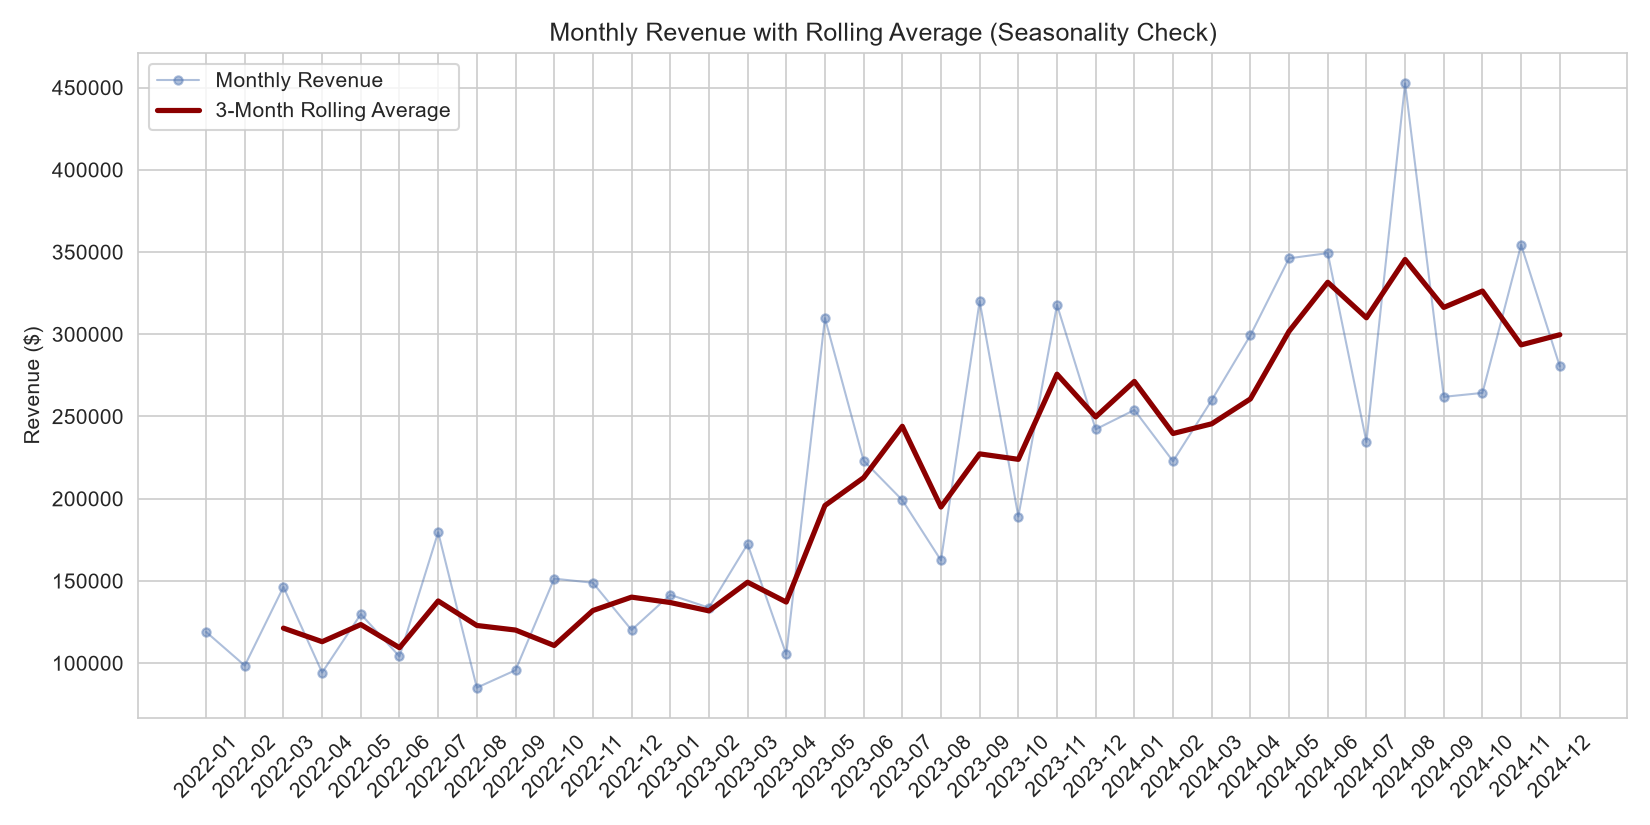
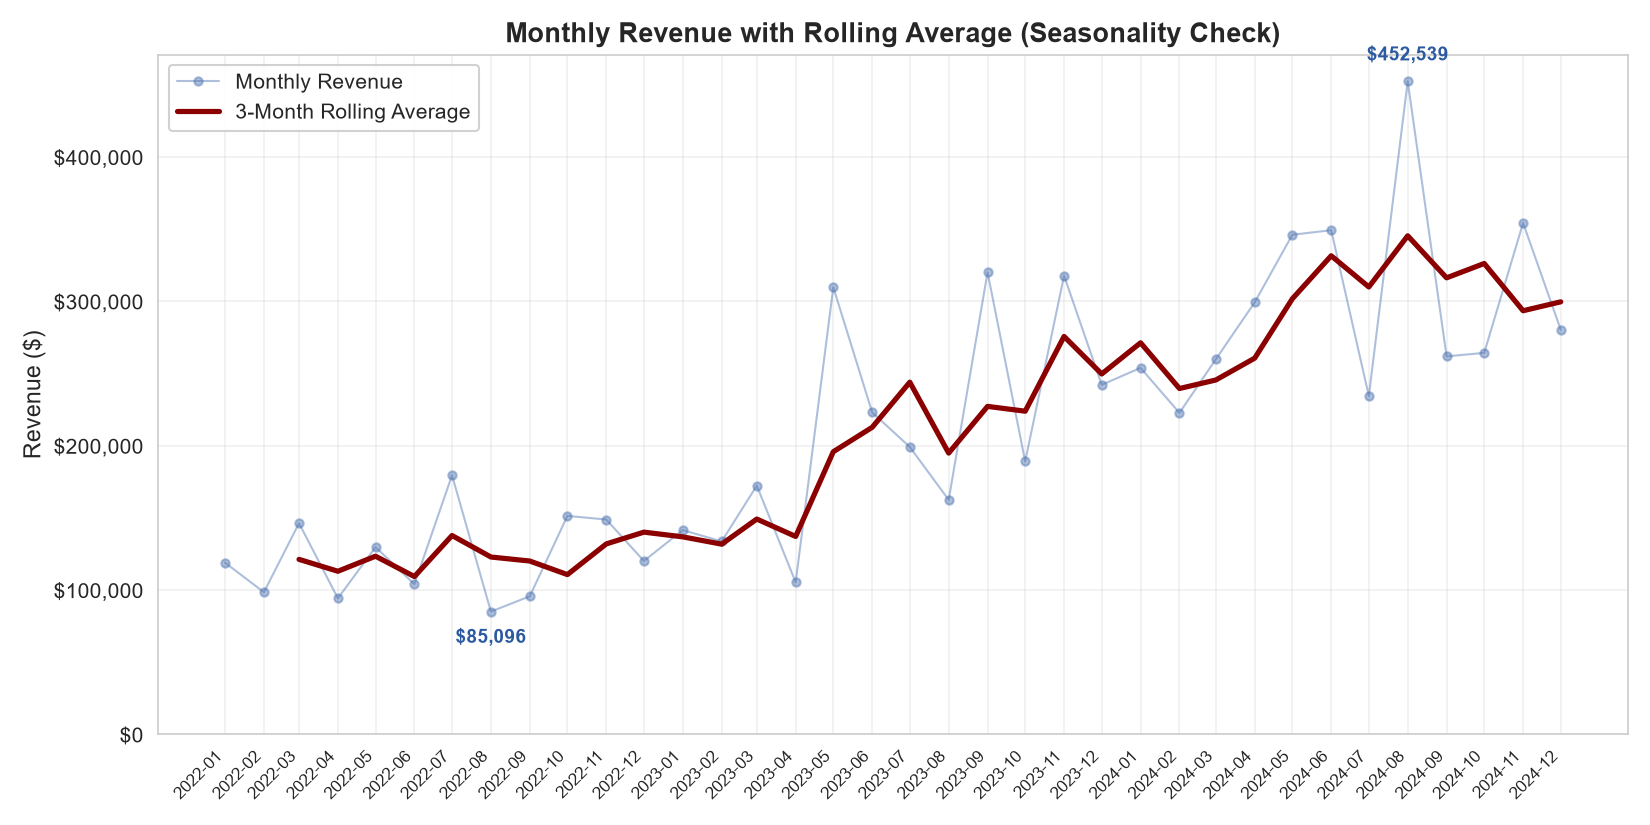
updating the visual in phase 5

Changed region(s): [[0.0, 0.0303, 0.9891, 0.9697], [0.0618, 0.8788, 0.0927, 0.9091]]

diff --git a/src/visualize.py b/src/visualize.py
@@ -7,6 +7,7 @@ import numpy as np
 import pandas as pd
 import matplotlib.pyplot as plt
 import seaborn as sns
+import matplotlib.ticker as mticker
 from . import config
 
 sns.set_style("whitegrid")
@@ -39,15 +40,30 @@ def q2_seasonality(category_month_revenue: pd.DataFrame) -> dict:
     rolling_avg = monthly_revenue.rolling(window=3).mean()
 
     fig, ax = plt.subplots(figsize=(11, 5.5))
-    ax.plot(range(len(monthly_revenue)), monthly_revenue.values, marker="o", markersize=4,
-            color="#4C72B0", linewidth=1, alpha=0.45, label="Monthly Revenue")
-    ax.plot(range(len(rolling_avg)), rolling_avg.values, linewidth=2.5, color="darkred",
-            label="3-Month Rolling Average")
-    ax.set_title("Monthly Revenue with Rolling Average (Seasonality Check)")
-    ax.set_ylabel("Revenue ($)")
-    ax.set_xticks(range(len(monthly_revenue)))
-    ax.set_xticklabels([d.strftime("%Y-%m") for d in monthly_revenue.index], rotation=45)
-    ax.legend(loc="upper left")
+    ax.plot(monthly_revenue.index, monthly_revenue.values, marker="o", markersize=4,
+            color="#4C72B0", linewidth=1, alpha=0.45, label="Monthly Revenue", zorder=1)
+    ax.plot(rolling_avg.index, rolling_avg.values, linewidth=2.5, color="darkred",
+            label="3-Month Rolling Average", zorder=2)
+    ax.yaxis.set_major_formatter(mticker.FuncFormatter(lambda x, _: f"${x:,.0f}"))
+    ax.set_ylim(bottom=0)
+    peak_idx = monthly_revenue.idxmax()
+    trough_idx = monthly_revenue.idxmin()
+    ax.annotate(f"${monthly_revenue[peak_idx]:,.0f}",
+                xy=(peak_idx, monthly_revenue[peak_idx]),
+                xytext=(0, 10), textcoords="offset points",
+                ha="center", fontsize=9, fontweight="bold", color="#2c5aa0")
+    ax.annotate(f"${monthly_revenue[trough_idx]:,.0f}",
+                xy=(trough_idx, monthly_revenue[trough_idx]),
+                xytext=(0, -15), textcoords="offset points",
+                ha="center", fontsize=9, fontweight="bold", color="#2c5aa0")
+    ax.set_xticks(monthly_revenue.index)
+    ax.set_xticklabels([d.strftime("%Y-%m") for d in monthly_revenue.index], rotation=45, ha="right", fontsize=8)
+
+    ax.set_title("Monthly Revenue with Rolling Average (Seasonality Check)", fontsize=13, fontweight="bold")
+    ax.set_ylabel("Revenue ($)", fontsize=11)
+    ax.legend(loc="upper left", framealpha=0.9)
+    ax.grid(True, alpha=0.3)
+
     plt.tight_layout()
     plt.savefig(config.FIGURES / "q2_seasonality.png", dpi=150)
     plt.close(fig)
